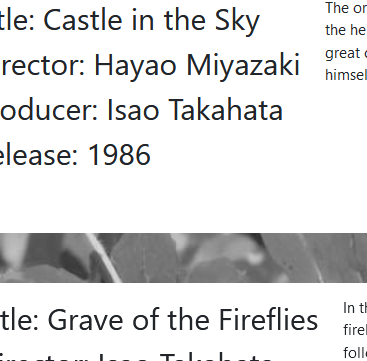
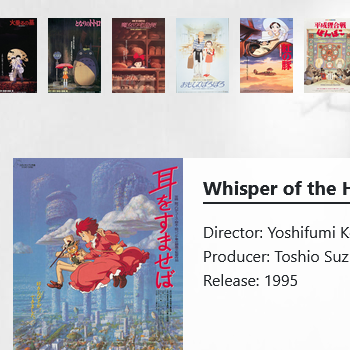
added new thumbnail

diff --git a/index.html b/index.html
@@ -99,7 +99,11 @@
           and its even better if that story includes a great data visualization.
           Currently I am working to complete the JavaScript learning path at
           Elevenfifty Academy. Find out more by viewing the projects and on
-          Github or my profile on Linkedin.
+          <a href="https://github.com/SteveEmerson" class="sm-link">Github</a>
+          or my profile on
+          <a href="https://www.linkedin.com/in/sbemerson/" class="sm-link"
+            >Linkedin</a
+          >.
         </p>
         <div class="knowledge-icons">
           <i class="fab fa-js-square"></i>
@@ -166,9 +170,7 @@
         </div>
         <div class="row">
           <div class="card port-img">
-            <a
-              href="https://steveemerson.github.io/Studio-Ghibli-Data/"
-              target="_blank"
+            <a href="https://studioghiblifilmdata.web.app/" target="_blank"
               ><img
                 src="./assets/Project-Thumbnail/GhibliThumbnail.PNG"
                 class="card-img-top img-thumbnail"

diff --git a/style.css b/style.css
@@ -170,6 +170,10 @@ body {
   font-size: 1rem;
 }
 
+.sm-link {
+  color: var(--font-color);
+}
+
 .knowledge-icons {
   position: relative;
   left: 10%;
@@ -200,6 +204,10 @@ body {
 
 .card-text {
   font-size: 0.8rem;
+}
+
+.img-thumbnail {
+  width: 280px;
 }
 
 /* Contact */
